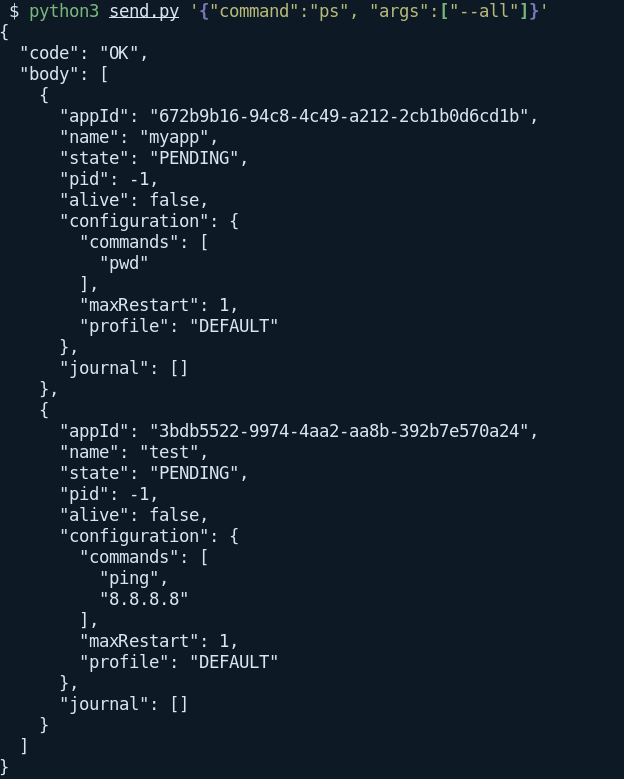
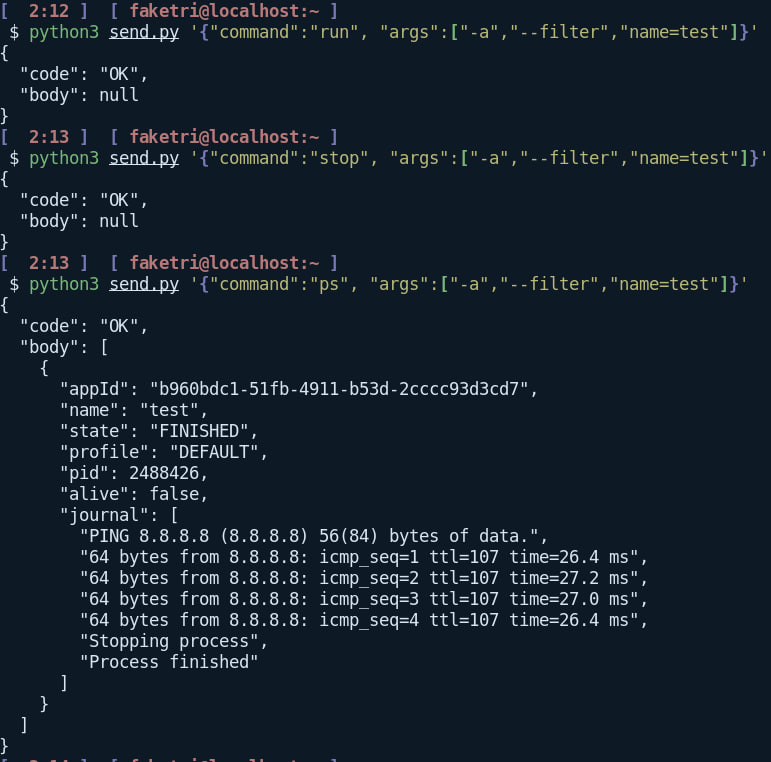
application lifecycle controller, support for core commands for working with the application

diff --git a/src/main/java/org/faketri/infrastructure/controllers/LifecycleController.java b/src/main/java/org/faketri/infrastructure/controllers/LifecycleController.java
@@ -1,0 +1,48 @@
+package org.faketri.infrastructure.controllers;
+
+import org.faketri.domain.exceptions.application.ApplicationException;
+import org.faketri.net.EStatusCode;
+import org.faketri.net.RequestDispatcherCommand;
+import org.faketri.net.exceptions.request.ErrorRequest;
+import org.faketri.net.io.dto.request.ProcessedRequest;
+import org.faketri.net.io.dto.response.ResponseEntry;
+import org.faketri.net.socket.mapper.RequestExceptionMapper;
+import org.faketri.service.ApplicationLifecycle;
+
+
+public class LifecycleController implements Controller {
+    private final ApplicationLifecycle lifecycle;
+
+    public LifecycleController(ApplicationLifecycle lifecycle) {
+        this.lifecycle = lifecycle;
+    }
+
+    public ResponseEntry<?> start(ProcessedRequest request) {
+        return saveExecute(() -> lifecycle.start(request.filters()));
+    }
+
+    public ResponseEntry<?> stop(ProcessedRequest request) {
+        return saveExecute(() -> lifecycle.stop(request.filters()));
+    }
+
+    public ResponseEntry<?> restart(ProcessedRequest request) {
+        return saveExecute(() -> lifecycle.restart(request.filters()));
+    }
+
+    private ResponseEntry<?> saveExecute(Runnable action) {
+        try {
+            action.run();
+            return ResponseEntry.ok();
+        } catch (ApplicationException ex) {
+            return RequestExceptionMapper.map(new ErrorRequest(ex.getMessage(), EStatusCode.BAD_REQUEST));
+        }
+    }
+
+
+    @Override
+    public void registerTo(RequestDispatcherCommand dispatcherCommand) {
+        dispatcherCommand.registerNewDispatch("run", this::start);
+        dispatcherCommand.registerNewDispatch("stop", this::stop);
+        dispatcherCommand.registerNewDispatch("restart", this::restart);
+    }
+}

diff --git a/src/main/java/org/faketri/core/AppInstance.java b/src/main/java/org/faketri/core/AppInstance.java
@@ -2,6 +2,7 @@ package org.faketri.core;
 
 import org.faketri.domain.Application;
 import org.faketri.infrastructure.configuration.ConfigurationReaderFactory;
+import org.faketri.infrastructure.controllers.LifecycleController;
 import org.faketri.infrastructure.controllers.SearchApplicationController;
 import org.faketri.infrastructure.process.ApplicationRuntime;
 import org.faketri.infrastructure.process.journal.JournalFactory;
@@ -9,6 +10,8 @@ import org.faketri.net.ServerChannel;
 import org.faketri.net.ServerFactory;
 import org.faketri.net.handlers.StupidDispatcher;
 import org.faketri.service.AppRegistryImpl;
+import org.faketri.service.ApplicationLifecycle;
+import org.faketri.service.ApplicationLifecycleImpl;
 import org.faketri.service.ApplicationRegistry;
 
 import java.io.IOException;
@@ -30,12 +33,16 @@ public final class AppInstance {
                 .read();
 
         ApplicationRegistry registry = new AppRegistryImpl();
+        ApplicationLifecycle lifecycle = new ApplicationLifecycleImpl(registry);
+        
         apps.forEach(a -> registry.add(new ApplicationRuntime(a, JournalFactory.defaultInstance())));
 
         var controller = new SearchApplicationController(registry);
+        var lifeController = new LifecycleController(lifecycle);
 
         var dispatcher = new StupidDispatcher();
         controller.registerTo(dispatcher);
+        lifeController.registerTo(dispatcher);
 
         return new AppInstance(ServerFactory.newUnixSocketServer(dispatcher));
     }

diff --git a/src/main/java/org/faketri/service/ApplicationLifecycleImpl.java b/src/main/java/org/faketri/service/ApplicationLifecycleImpl.java
@@ -3,8 +3,11 @@ package org.faketri.service;
 import org.faketri.domain.exceptions.application.ApplicationException;
 import org.faketri.infrastructure.process.ApplicationRuntime;
 import org.faketri.infrastructure.process.filters.Filters;
+import org.slf4j.Logger;
+import org.slf4j.LoggerFactory;
 
 public class ApplicationLifecycleImpl implements ApplicationLifecycle {
+    private static final Logger log = LoggerFactory.getLogger(ApplicationLifecycleImpl.class);
     private final ApplicationRegistry appRegistry;
 
     public ApplicationLifecycleImpl(ApplicationRegistry appRegistry) {
@@ -13,8 +16,9 @@ public class ApplicationLifecycleImpl implements ApplicationLifecycle {
 
     @Override
     public void start(Filters p) {
+        log.debug("{}", p);
         appRegistry.find(p).ifPresentOrElse(ApplicationRuntime::start, () -> {
-            throw new ApplicationException("Cannot find application for stop " + p);
+            throw new ApplicationException("Cannot find application for stop");
         });
     }
 
@@ -27,7 +31,7 @@ public class ApplicationLifecycleImpl implements ApplicationLifecycle {
     @Override
     public void stop(Filters p) {
         appRegistry.find(p).ifPresentOrElse(ApplicationRuntime::stop, () -> {
-            throw new ApplicationException("Cannot find application for stop" + p);
+            throw new ApplicationException("Cannot find application for stop");
         });
     }
 }
